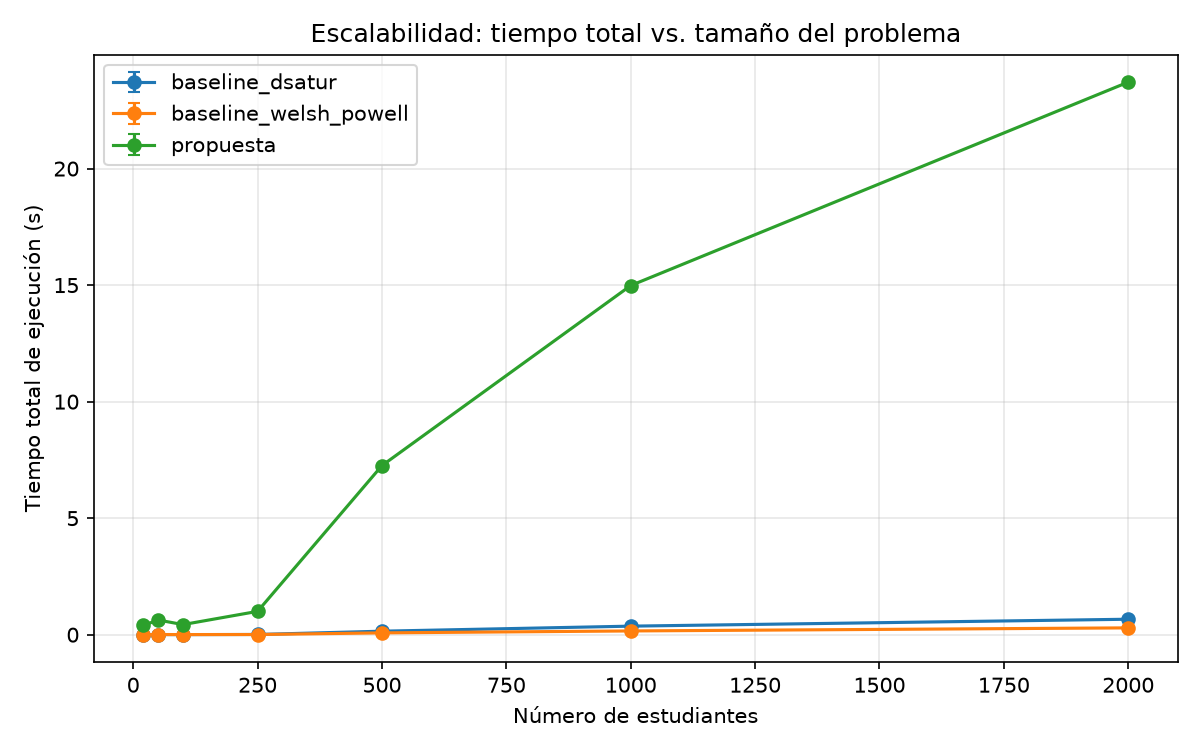
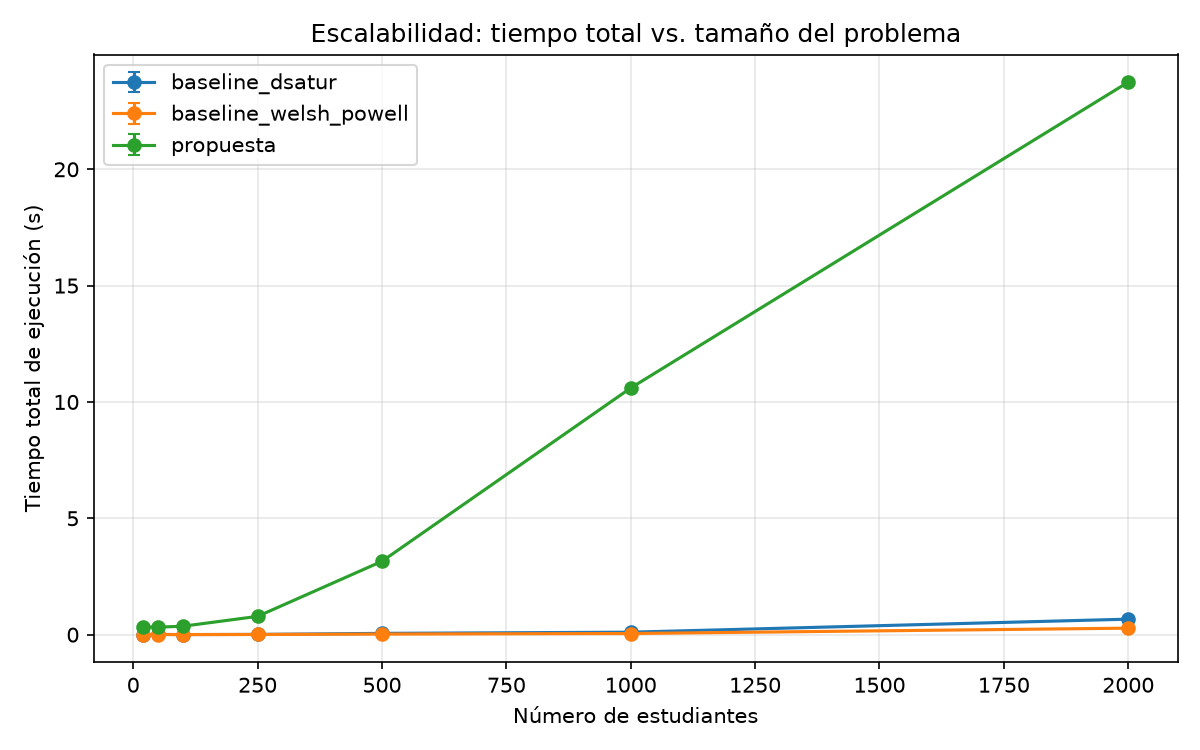
Mod: Se corrige el análisis de generación de vetos para que sea coherente

diff --git a/experimentos/generador_dataset.py b/experimentos/generador_dataset.py
@@ -255,24 +255,48 @@ def defaultdict_lista(nivel_maximo: int) -> Dict[int, List[Dict[str, Any]]]:
 
 
 def _generar_historial_reprobacion(
-    estudiantes: List[Dict[str, Any]],
-    materias: List[Dict[str, Any]],
+    grupos: List[Dict[str, Any]],
+    materias_por_id: Dict[str, Dict[str, Any]],
     profesores: List[Dict[str, Any]],
     num_vetos: int,
     rng: random.Random,
 ) -> List[Dict[str, Any]]:
+    """
+    A diferencia de una elección puramente aleatoria de (estudiante, materia,
+    profesor) -- que genera mayoritariamente vetos IMPOSIBLES de violar, por
+    ejemplo un profesor de otra área o un estudiante que nunca toma esa
+    materia -- aquí cada veto se arma sobre datos reales:
+      - la materia y el estudiante salen de un grupo con inscritos reales
+        (el estudiante SÍ toma esa materia), y
+      - el profesor vetado sale del conjunto de profesores cuya área de
+        conocimiento coincide con la de la materia (SÍ podría llegar a
+        dictarla).
+    Esto no garantiza que el veto se viole -- eso depende de a quién termine
+    asignando el matching -- pero asegura que exista una probabilidad real,
+    en vez de desperdiciar la mayoría de los vetos en combinaciones que
+    nunca podrían chocar.
+    """
+    grupos_con_inscritos = [g for g in grupos if g["estudiantes_inscritos"]]
+    if not grupos_con_inscritos:
+        return []
+
     historial = []
     intentos = 0
-    # Límite de intentos para no colgarse si num_vetos es más grande que las
-    # combinaciones únicas posibles en datasets muy pequeños.
     max_intentos = num_vetos * 20
 
     while len(historial) < num_vetos and intentos < max_intentos:
         intentos += 1
+        grupo = rng.choice(grupos_con_inscritos)
+        materia = materias_por_id[grupo["id_materia"]]
+
+        profesores_del_area = [p for p in profesores if materia["area_conocimiento"] in p["areas_habilitadas"]]
+        if not profesores_del_area:
+            continue
+
         veto = {
-            "id_estudiante": rng.choice(estudiantes)["id"],
-            "id_materia": rng.choice(materias)["id"],
-            "id_profesor_vetado": rng.choice(profesores)["id"],
+            "id_estudiante": rng.choice(list(grupo["estudiantes_inscritos"])),
+            "id_materia": materia["id"],
+            "id_profesor_vetado": rng.choice(profesores_del_area)["id"],
         }
         if veto not in historial:
             historial.append(veto)
@@ -318,7 +342,7 @@ def generar_dataset(num_estudiantes: int, semilla: int = 42) -> Dict[str, Any]:
     _inscribir_estudiantes(estudiantes, grupos_abiertos, materias_por_id, rng)
 
     historial_reprobacion = _generar_historial_reprobacion(
-        estudiantes, materias, profesores, num_vetos, rng
+        grupos_abiertos, materias_por_id, profesores, num_vetos, rng
     )
 
     # Limpiar el campo temporal de créditos
